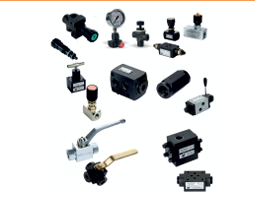
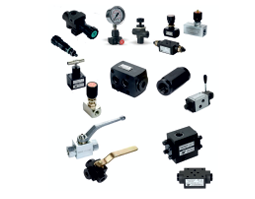
Add public image assets for production

diff --git a/src/styles.css b/src/styles.css
@@ -77,13 +77,14 @@ footer { background:var(--navy); color:#fff; padding:55px 5.8vw 24px; }.footer-t
 .navbar nav { max-height:100dvh; overflow-y:auto; }
 .navbar nav a::after { content:''; position:absolute; left:0; right:100%; bottom:-8px; height:1px; background:#91aff7; transition:right .25s ease; }
 .navbar nav a:hover::after { right:0; }
+.navbar { transition:background .3s ease, box-shadow .3s ease; }
 .hero-content > * { animation:hero-enter .65s both; }
 .hero-content > *:nth-child(2) { animation-delay:.08s; }.hero-content > *:nth-child(3) { animation-delay:.16s; }.hero-content > *:nth-child(4) { animation-delay:.24s; }.hero-content > *:nth-child(5) { animation-delay:.32s; }
 .hero-visual img { animation:hero-image .9s .15s both; }
 @keyframes hero-enter { from { opacity:0; transform:translateY(18px); } to { opacity:1; transform:none; } }
 @keyframes hero-image { from { opacity:0; clip-path:polygon(30% 0,100% 0,88% 100%,0 100%); transform:translateX(18px); } to { opacity:1; clip-path:polygon(12% 0,100% 0,88% 100%,0 100%); transform:none; } }
-html.motion-ready main > section, html.motion-ready .service-item { opacity:0; transform:translateY(18px); transition:opacity .65s ease, transform .65s ease; }
-html.motion-ready main > section.is-visible, html.motion-ready .service-item.is-visible { opacity:1; transform:none; }
+html.motion-ready main > section, html.motion-ready .service-item, html.motion-ready .intro-image, html.motion-ready .project-images figure, html.motion-ready .project-aside, html.motion-ready .find-us { opacity:0; transform:translateY(18px); transition:opacity .65s ease, transform .65s ease; }
+html.motion-ready main > section.is-visible, html.motion-ready .service-item.is-visible, html.motion-ready .intro-image.is-visible, html.motion-ready .project-images figure.is-visible, html.motion-ready .project-aside.is-visible, html.motion-ready .find-us.is-visible { opacity:1; transform:none; }
 .product-card:nth-child(2), .service-item:nth-child(2) { transition-delay:.07s; }.product-card:nth-child(3), .service-item:nth-child(3) { transition-delay:.14s; }
 .hero-visual img, .product-image img, .project-images img { will-change:transform; }
 .intro-image { min-height:0; padding:4px; display:grid; place-items:center; background:#e7eaee; }
@@ -172,4 +173,34 @@ html.motion-ready main > section.is-visible, html.motion-ready .service-item.is-
   .accessory-product-image { height:225px; }
   .intro-image { height:auto; max-height:none; overflow:visible; }
   .intro-image img { width:100%; max-width:100%; height:auto; max-height:none; object-fit:contain; }
+}
+
+/* Premium motion polish */
+.section-heading .eyebrow, .section-heading h2, .section-heading .section-lede { opacity:0; transform:translateY(12px); transition:opacity .6s ease, transform .6s ease; }
+.is-visible .section-heading .eyebrow, .is-visible .section-heading h2, .is-visible .section-heading .section-lede { opacity:1; transform:none; }
+.is-visible .section-heading h2 { transition-delay:.08s; }.is-visible .section-heading .section-lede { transition-delay:.16s; }
+.product-card, .accessory-product-card { transition:transform .25s ease, box-shadow .25s ease, border-color .25s ease; }
+.product-card:hover, .accessory-product-card:hover { transform:translateY(-5px); border-color:#c5d3ed; box-shadow:0 18px 34px #15223814; }
+.product-card:focus-within, .accessory-product-card:focus-within { border-color:#3978f6; box-shadow:0 0 0 3px #3978f626; }
+.product-image img { transition:transform .3s ease, filter .3s ease; }
+.product-card:hover .product-image img { filter:saturate(1.05); }
+.service-item { transition:background .25s ease, border-color .25s ease, transform .3s ease, opacity .65s ease; }
+.service-item:hover { background:#ffffff08; transform:translateY(-3px); }
+.service-item:hover > svg { transform:translateX(4px); }.service-item > svg { transition:transform .25s ease; }
+.accessory-product-card .product-enquire { transition:color .2s ease, gap .2s ease; }
+.accessory-product-card:hover .product-enquire { gap:14px; }
+.project-images figure img { transition:transform .5s ease, filter .35s ease; }
+.project-images figure:hover img { transform:scale(1.015); filter:saturate(.78); }
+.project-aside { transition:background .3s ease, transform .3s ease, opacity .65s ease; }
+.project-aside:hover { background:#dce5f0; }
+.certificate-trigger { transition:box-shadow .25s ease, transform .25s ease; }
+.certificate-trigger:hover { transform:translateY(-3px); box-shadow:0 16px 30px #17253b14; }
+.button, .text-button, .filter { transition:background .25s ease, color .25s ease, border-color .25s ease, transform .25s ease, box-shadow .25s ease; }
+.button:focus-visible, .text-button:focus-visible, .filter:focus-visible, .mobile-toggle:focus-visible { outline:2px solid #91aff7; outline-offset:3px; }
+.button:hover svg, .text-button:hover svg { transform:translate(3px,-2px); }.button svg, .text-button svg { transition:transform .25s ease; }
+.logo-track img { transition:opacity .25s ease, transform .25s ease; }.logo-track img:hover { opacity:.9; transform:scale(1.04); }
+.find-us-copy, .map-frame { transition:transform .3s ease, box-shadow .3s ease; }.find-us-copy:hover, .map-frame:hover { transform:translateY(-3px); box-shadow:0 18px 38px #17253b18; }
+@media (prefers-reduced-motion:reduce) {
+  .section-heading .eyebrow, .section-heading h2, .section-heading .section-lede { opacity:1; transform:none; }
+  .product-card:hover, .accessory-product-card:hover, .service-item:hover, .certificate-trigger:hover, .find-us-copy:hover, .map-frame:hover { transform:none; }
 }

diff --git a/src/App.jsx b/src/App.jsx
@@ -24,8 +24,9 @@ export default function App() {
   const shownProducts = useMemo(() => category === 'All' ? products : products.filter((product) => product.category === category), [category])
   const openQuote = () => setSelectedProduct({ name: 'General Enquiry' })
   useEffect(() => {
+    if (!('IntersectionObserver' in window)) return undefined
     document.documentElement.classList.add('motion-ready')
-    const observed = document.querySelectorAll('main > section, .product-card, .service-item')
+    const observed = document.querySelectorAll('main > section, .service-item, .intro-image, .project-images figure, .project-aside, .find-us')
     const observer = new IntersectionObserver((entries) => entries.forEach((entry) => {
       if (entry.isIntersecting) entry.target.classList.add('is-visible')
     }), { threshold: 0.08 })
